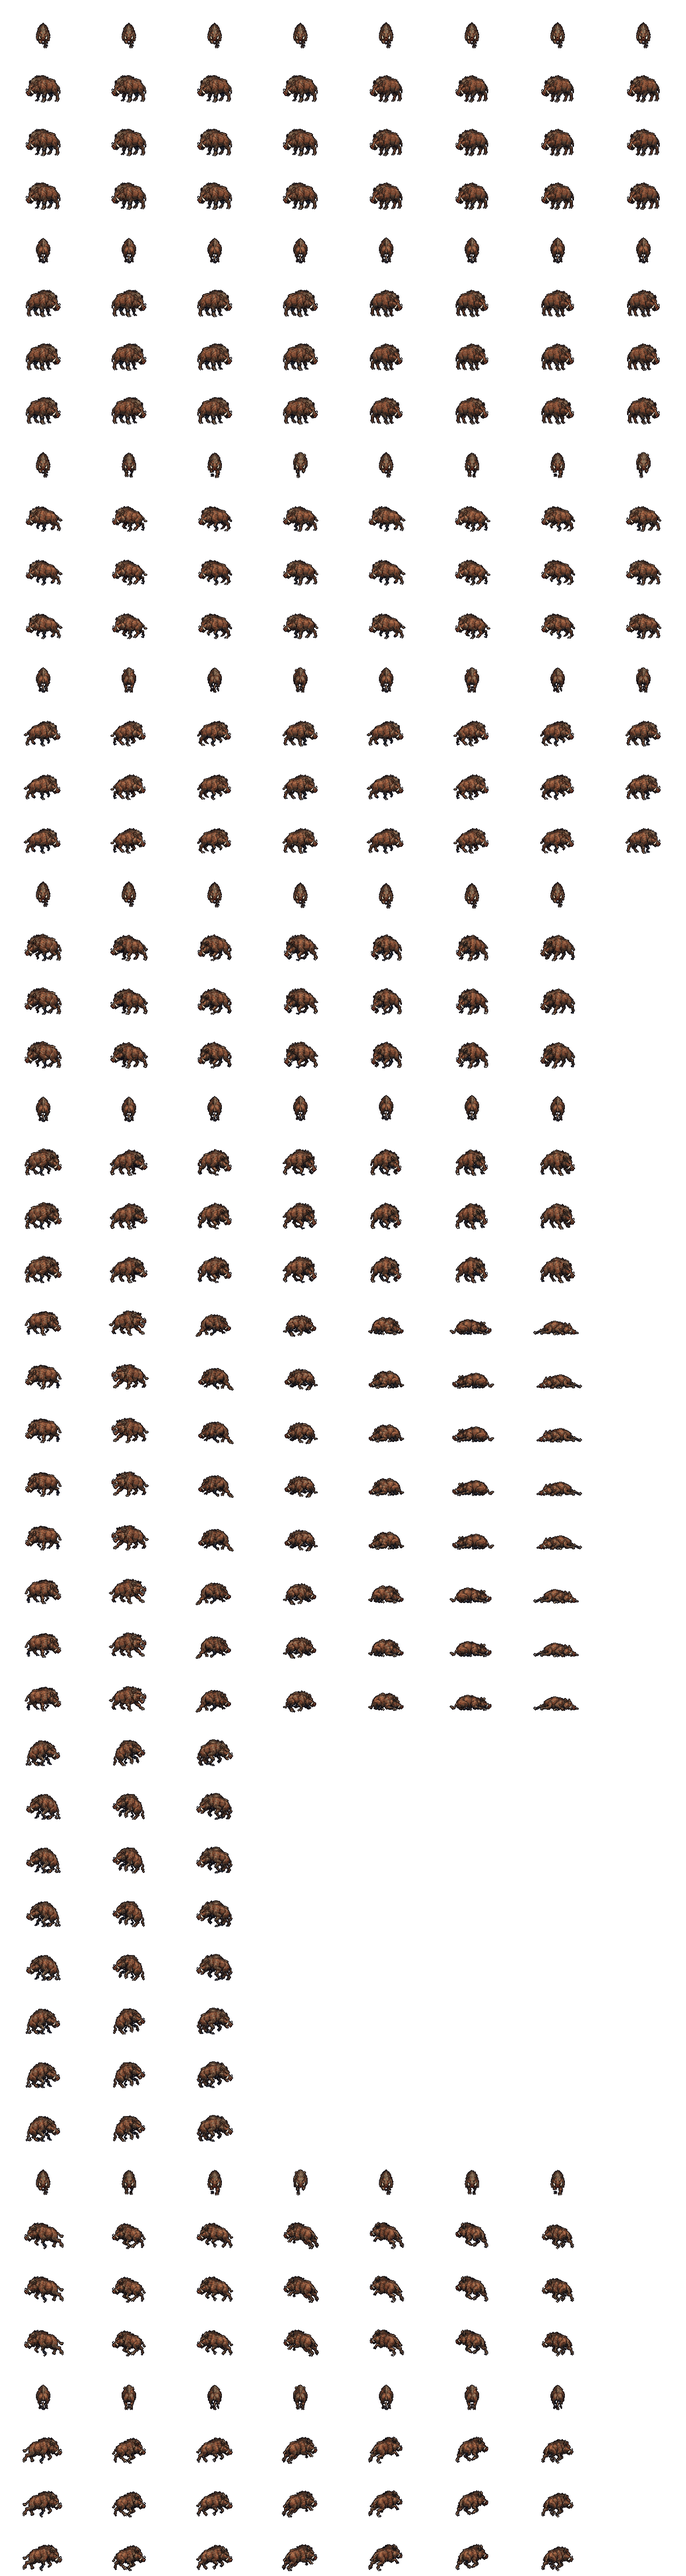
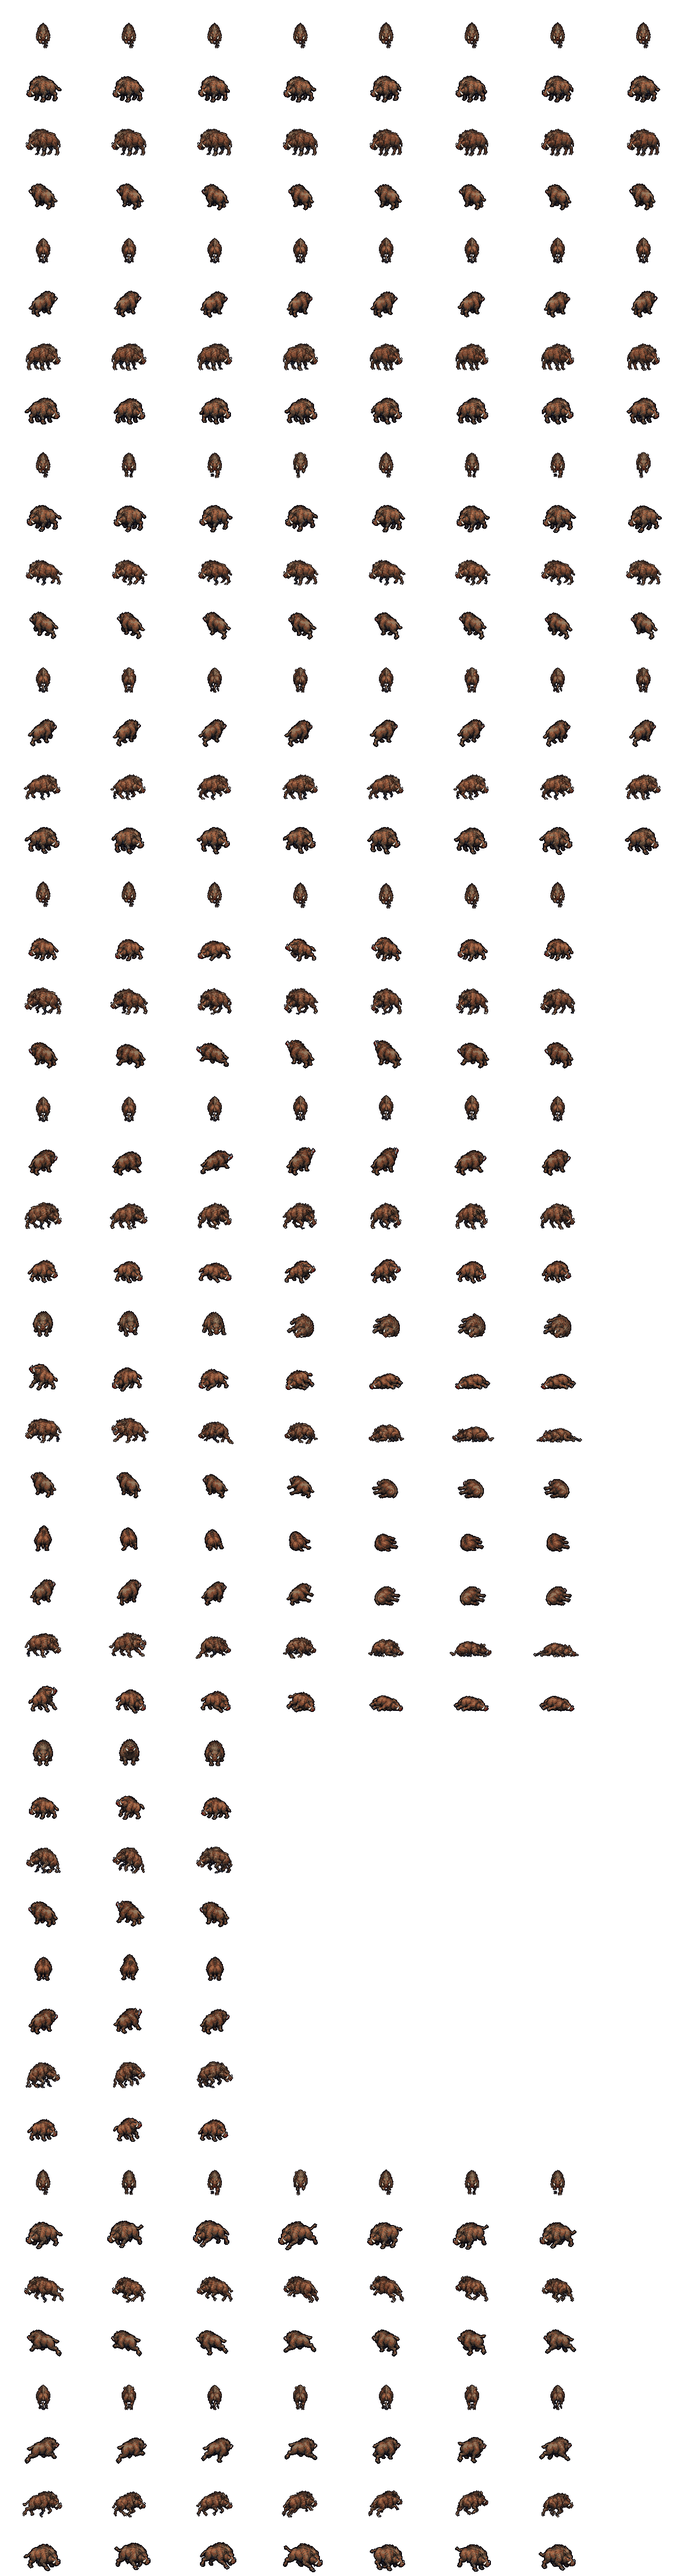
The giant boar in all eight facings: the art desk's ART-41 cut onto giantboar_p2 (SE and NE every row, SW and NW mirrored; S and N their hit and death)
tools/artdesk.py, new: a facings package onto a sheet its cutter already builds -- the pages cut by their numbers (sheetrows),
scaled by height (a diagonal's Idle between the side and the front or back; a later page by its Death 1 or first frame against
its Idle 1; a front or back page by its standing frame), toned per channel to the sheet's own frame for that view when asked,
placed against the numbers and the row's ground, refused when a frame leaves the cell. tools/boar-sheet.py ART41 through it
(K 2.95 to 5.76; toned: the desk drew it warmer and lighter), and its _src from the main checkout in a worktree. Idle frame 1
stands 50 SE, 49 NE, against 51 side, 48 front and back. Every kept frame byte for byte. The show bench's `run 0` FAIL is the old
sheet's too (the sprint plays only after a 20-ft charge; proved by a swap).
On Griz's "spin up an one-at-a-time art cutter that goes until we're out" (10-22, to the lanes desk).

diff --git a/deep16/data/sprites.js b/deep16/data/sprites.js
@@ -3945,7 +3945,7 @@
 }
 },
 "giantboar_p2": {
-"image": "art/giantboar_p2.png?v=4aa0218cc1",
+"image": "art/giantboar_p2.png?v=93caf0aa98",
 "fw": 160,
 "fh": 100,
 "ax": 80,
@@ -4007,7 +4007,7 @@
 "fps": 14
 }
 },
-"source": "generated by Griz (2026-09-30, one sheet of two), cut and snapped by tools/boar-sheet.py"
+"source": "generated by Griz (2026-09-30, one sheet of two), cut and snapped by tools/boar-sheet.py; SE and NE every row and S and N their hit and death drawn by the art desk (ART-41, 10-22)"
 },
 "giantfrog_p1": {
 "image": "art/giantfrog_p1.png?v=00f7fa1159",

diff --git a/deep16/index.html b/deep16/index.html
@@ -77,7 +77,7 @@
 <script src="js/art.js?v=e1ce4cf012"></script>
 <script src="data/cavern.js?v=647c1a184a"></script>
 <script src="data/maps.js?v=971b4fe9e6"></script>
-<script src="data/sprites.js?v=9fec0d7a57"></script>
+<script src="data/sprites.js?v=4e21a0120f"></script>
 <script src="js/sprites.js?v=132505c283"></script>
 <script src="js/save.js?v=1191d6f29a"></script>
 <script src="data/spells.js?v=b819b6e987"></script>

diff --git a/tools/artdesk.py b/tools/artdesk.py
@@ -1,0 +1,151 @@
+"""The art desk's facings packages onto a sheet a cutter already builds (10-22, the monster cutter seat's second run: the ettercap's art39
+first, then this, shared by the sheets after it). A package draws a creature's missing views on numbered pages: HEAD 1 SE, HEAD 2 NE,
+HEAD 3 S, HEAD 5 N (RULED 10-14: five drawn views, SW and NW the mirrors of SE and NE), each row's name at its left and its numbers under it.
+
+    AD = <load tools/artdesk.py>
+    got = AD.views(ROOT, 'giantboar', 'ART-41', PAGES, VIEWS, idle_h, fit, torso_x, (FW, FH, AX, AY))   # -> {view: {row: [FH x FW arrays]}}
+
+PAGES: {L: dict(file, W, text=[boxes], rows=[(row, band, number strip, count)])}, boxes read off the page (the numbers, islands in the
+navy; the row names at the left). VIEWS: {'SE': (L, ...), 'NE': (...), 'S': (...), 'N': (...)} -- each view's pages, its Idle's first
+when it has one. idle_h: the sheet's own standing heights at game size {'side':, 'S':, 'N':}. fit(im, k) -> the game-size RGBA array (the
+cutter's own: its tone, its outline); torso_x(a) -> the body's middle column.
+Scale by height: a diagonal's Idle meets the mean of the side's and its front's (SE) or back's (NE); a later page by its first standing
+frame (its Death 1 when it has one, else its first row's first frame) against its view's Idle 1, by the page's own px; a front or back page
+by that standing frame against the front's or back's idle. Placed as the page drew them: each row's first frame with its torso on AX and its
+lowest row on AY, the rest against their numbers and the row's ground. Refuses a frame cut off at the cell's edge.
+"""
+import os, subprocess, importlib.util
+import numpy as np
+from PIL import Image
+from scipy import ndimage
+
+
+def src_dir(root):
+    """the art lives in the main checkout's deep16/_src (not in git): a worktree reads it there"""
+    d = os.path.join(root, 'deep16', '_src')
+    if os.path.isdir(d):
+        return d
+    common = subprocess.run(['git', '-C', root, 'rev-parse', '--git-common-dir'], capture_output=True, text=True).stdout.strip()
+    return os.path.join(os.path.dirname(os.path.abspath(os.path.join(root, common))), 'deep16', '_src')
+
+
+def _sheetrows(root):
+    spec = importlib.util.spec_from_file_location('sheetrows', os.path.join(root, 'tools', 'sheetrows.py'))
+    mod = importlib.util.module_from_spec(spec); spec.loader.exec_module(mod)
+    return mod
+
+
+def body_h(im):
+    """a page frame's height: its biggest piece filled (a loose shred, a strand, a spark left out)"""
+    m = np.asarray(im)[..., 3] > 0
+    lab, n = ndimage.label(m, structure=np.ones((3, 3)))
+    m = lab == 1 + int(np.argmax(ndimage.sum(m, lab, range(1, n + 1))))
+    ys = np.where(m.any(axis=1))[0]
+    return float(ys[-1] - ys[0] + 1)
+
+
+def tall(a):
+    ys = np.where(a[..., 3].any(axis=1))[0]
+    return int(ys[-1] - ys[0] + 1)
+
+
+def cut(root, sub, art, pages, chan=None, fix=None):
+    """-> {L: {row: [(page image, its box, its number's x)]}}"""
+    SR = _sheetrows(root)
+    out = {}
+    for L, s in pages.items():
+        path = os.path.join(src_dir(root), sub, art, s['file'])
+        a = np.asarray(Image.open(path).convert('RGB')).astype(np.int32)
+        sp = dict(text=s['text'] + [(0, l0 - 3, s['W'], l1 + 4) for _, _, (l0, l1), _ in s['rows']],
+                  rows=[(r, b, l, [str(i + 1) for i in range(n)]) for r, b, l, n in s['rows']])
+        if chan:
+            sp['chan'] = chan
+        got = SR.cut_sheet(path, sp, fix=(fix or {}).get(L), tag=L)
+        lx = {r: SR.label_xs(a, b[0], b[2], l[0], l[1]) for r, b, l, _ in s['rows']}
+        out[L] = {r: [(im, box, lx[r][i]) for i, (_, im, box) in enumerate(frs)] for r, frs in got.items()}
+    return out
+
+
+def scales(cuts, views, idle_h, fit):
+    def k_for(ims, target):                          # page px a game px: the fitted frames' median height meets target
+        lo, hi = 1.0, 20.0
+        for _ in range(26):
+            k = (lo + hi) / 2
+            got = float(np.median([tall(fit(im, k)) for im in ims]))
+            lo, hi = (k, hi) if got > target else (lo, k)
+        return (lo + hi) / 2
+    stand = lambda L: (cuts[L]['hurt'] if 'hurt' in cuts[L] else next(iter(cuts[L].values())))[0][0]
+    K = {}
+    for v, ls in views.items():
+        if 'idle' in cuts[ls[0]]:
+            p1 = ls[0]
+            target = idle_h[v] if v in ('S', 'N') else (idle_h['side'] + idle_h['S' if v == 'SE' else 'N']) / 2
+            K[p1] = k_for([im for im, _, _ in cuts[p1]['idle']], target)
+            ref = body_h(cuts[p1]['idle'][0][0])
+            for L in ls[1:]:
+                K[L] = K[p1] * body_h(stand(L)) / ref
+        else:                                            # a front or back page with no idle: its standing frame against the view's idle
+            for L in ls:
+                K[L] = k_for([stand(L)], idle_h[v])
+    return K
+
+
+def _mean(a):
+    al = a[..., 3] > 0
+    return a[..., :3][al].astype(float).mean(0)
+
+
+def toned(im, f):
+    a = np.asarray(im).astype(float)
+    a[..., :3] = np.clip(a[..., :3] * np.array(f), 0, 255)
+    return Image.fromarray(a.astype(np.uint8), 'RGBA')
+
+
+def tones(cuts, view_pages, K, fit, ref):
+    """per channel, each page's standing frame (its Idle 1, else as `scales`) brought to the sheet's own frame for that view (ref: {'side':,
+    'S':, 'N':} game-size arrays; SE and NE against the side), measured at game size, both snapped"""
+    T = {}
+    for v, ls in view_pages.items():
+        r = _mean(ref['side'] if v in ('SE', 'NE') else ref[v])
+        for L in ls:
+            im = (cuts[L]['idle'] if 'idle' in cuts[L] else cuts[L]['hurt'] if 'hurt' in cuts[L] else next(iter(cuts[L].values())))[0][0]
+            f = r / _mean(fit(im, K[L]))
+            f = f * r / _mean(fit(toned(im, f), K[L]))           # (once more: the snap moves what the tone moved)
+            T[L] = tuple(float(round(x, 3)) for x in f)
+    print('  tone: ' + ', '.join('%s x %s' % (L, T[L]) for L in T))
+    return T
+
+
+def views(root, sub, art, pages, view_pages, idle_h, fit, torso_x, cell, chan=None, fix=None, tone_ref=None):
+    """tone_ref: the sheet's own frames to tone each page to (see `tones`), or None to cut the pages' colour as drawn"""
+    FW, FH, AX, AY = cell
+    cuts = cut(root, sub, art, pages, chan, fix)
+    K = scales(cuts, view_pages, idle_h, fit)
+    print('  %s K: ' % art + ', '.join('%s %.2f' % (L, K[L]) for L in pages) +
+          '; the sheet stands %.0f side-on, %.0f from the front, %.0f from behind' % (idle_h['side'], idle_h['S'], idle_h['N']))
+    T = tones(cuts, view_pages, K, fit, tone_ref) if tone_ref else {}
+    out, lost = {}, []
+    for v, ls in view_pages.items():
+        out[v] = {}
+        for L in ls:
+            k = K[L]
+            for an, frs in cuts[L].items():
+                fits = [fit(toned(im, T[L]) if L in T else im, k) for im, _, _ in frs]
+                rel = [((box[0] - x) / k, box[3] / k) for _, box, x in frs]     # (each frame's left against its number, its foot on the row's ground)
+                tx = torso_x(fits[0])
+                row = []
+                for a, (rx, rb) in zip(fits, rel):
+                    ox = int(round(AX - tx + (rx - rel[0][0])))
+                    oy = int(round(AY + (rb - rel[0][1]))) - int(np.where(a[..., 3].any(axis=1))[0][-1])
+                    fr = np.zeros((FH, FW, 4), dtype=np.uint8)
+                    h, w = a.shape[:2]
+                    y0, x0, y1, x1 = max(0, oy), max(0, ox), min(FH, oy + h), min(FW, ox + w)
+                    if y1 > y0 and x1 > x0:
+                        fr[y0:y1, x0:x1] = a[y0 - oy:y1 - oy, x0 - ox:x1 - ox]
+                    if (fr[..., 3] > 0).sum() < (a[..., 3] > 0).sum():
+                        lost.append('%s %s %d (rows %d..%d cols %d..%d)' % (L, an, len(row) + 1, oy, oy + h - 1, ox, ox + w - 1))
+                    row.append(fr)
+                out[v][an] = row
+    if lost:
+        raise SystemExit('%s cut off at the cell edge (%d x %d, anchor %d,%d): ' % (art, FW, FH, AX, AY) + '; '.join(lost))
+    return out

diff --git a/tools/boar-sheet.py b/tools/boar-sheet.py
@@ -33,7 +33,10 @@ import importlib.util
 spec = importlib.util.spec_from_file_location('pix', os.path.join(ROOT, 'tools', 'pixelate.py'))
 pix = importlib.util.module_from_spec(spec); spec.loader.exec_module(pix)
 
-SRC = os.path.join(ROOT, 'deep16', '_src')
+spec = importlib.util.spec_from_file_location('artdesk', os.path.join(ROOT, 'tools', 'artdesk.py'))
+AD = importlib.util.module_from_spec(spec); spec.loader.exec_module(AD)
+
+SRC = AD.src_dir(ROOT)                                  # (his sheets live in the main checkout: a worktree reads them there)
 NAME = 'giantboar_p2'
 A = np.asarray(Image.open(os.path.join(SRC, 'boar_grok_1.webp')).convert('RGB')).astype(np.int32)
 _v, _c = np.unique(A.reshape(-1, 3) // 4, axis=0, return_counts=True)
@@ -46,6 +49,30 @@ BANDS = {'idle': ((20, 108, 298, 228), 2), 'walk': ((318, 108, 910, 228), 4),
          'front': ((20, 268, 472, 402), 5), 'back': ((490, 268, 916, 402), 5),
          'attack': ((20, 442, 916, 554), 7), 'hit': ((20, 592, 452, 700), 3),
          'death': ((468, 592, 1516, 700), 7), 'sprint': ((20, 736, 766, 834), 7)}
+
+
+# The five views (10-22, the monster cutter seat's second run): the art desk's ART-41 in deep16/_src/giantboar/ART-41/ (sorted out of Fresh
+# by _src/art-desk/sort-delivery.py; its papers in _src/art-desk/received-2026-10-22-ART-41-giantboar-FINAL-SHEETS/): HEAD 1 SE on two pages
+# (Idle 8, Walk 8, Sprint 7; Gore 7, Hit 3, Death 7), HEAD 2 NE on three (Idle, Walk, Sprint; Gore, Hit; Death), HEAD 3 S and HEAD 5 N their
+# Hit and Death. Cut, scaled and placed by tools/artdesk.py (by height: this sheet's idle stands STAND from every side, so a diagonal meets
+# it; a later page by its Death 1 or Gore 1 against its Idle 1; S's and N's Death 1 against their idles), through `fit` as Griz's sheet.
+# SE and SW, NE and NW take every row; S and N their flinch and hurt (his walks toward and away keep their idle, walk, run and the gore's dip).
+ART41 = {
+  'H1P1': dict(file='ART-41_HEAD-1_PAGE-1.png', W=1536, text=[(12, 154, 87, 186), (10, 394, 101, 428), (11, 657, 119, 690)],
+               rows=[('idle', (0, 0, 1536, 339), (313, 339), 8), ('walk', (0, 340, 1536, 600), (574, 600), 8), ('run', (0, 601, 1536, 872), (845, 872), 7)]),
+  'H1P2': dict(file='ART-41_HEAD-1_PAGE-2.png', W=1536, text=[(12, 139, 103, 175), (12, 413, 74, 449), (12, 662, 116, 698)],
+               rows=[('attack', (0, 0, 1536, 346), (319, 346), 7), ('flinch', (0, 347, 1536, 620), (593, 620), 3), ('hurt', (0, 621, 1536, 898), (870, 898), 7)]),
+  'H2P1': dict(file='ART-41_HEAD-2_PAGE-1.png', W=1536, text=[(12, 154, 84, 186), (10, 394, 102, 428), (12, 657, 119, 690)],
+               rows=[('idle', (0, 0, 1536, 339), (314, 339), 8), ('walk', (0, 340, 1536, 600), (574, 600), 8), ('run', (0, 601, 1536, 872), (845, 872), 7)]),
+  'H2P2': dict(file='ART-41_HEAD-2_PAGE-2.png', W=1774, text=[(16, 123, 115, 163), (16, 381, 82, 420)],
+               rows=[('attack', (0, 0, 1774, 310), (282, 310), 7), ('flinch', (0, 311, 1774, 560), (532, 560), 3)]),
+  'H2P3': dict(file='ART-41_HEAD-2_PAGE-3.png', W=2032, text=[(18, 269, 142, 313)], rows=[('hurt', (0, 0, 2032, 589), (552, 589), 7)]),
+  'H3P1': dict(file='ART-41_HEAD-3_PAGE-1.png', W=1808, text=[(23, 150, 92, 192), (25, 463, 144, 506)],
+               rows=[('flinch', (0, 0, 1808, 413), (383, 413), 3), ('hurt', (0, 414, 1808, 766), (736, 766), 7)]),
+  'H5P1': dict(file='ART-41_HEAD-5_PAGE-1.png', W=1774, text=[(19, 185, 98, 232), (19, 480, 148, 526)],
+               rows=[('flinch', (0, 0, 1774, 387), (355, 387), 3), ('hurt', (0, 388, 1774, 775), (742, 775), 7)]),
+}
+VIEWS41 = {'SE': ('H1P1', 'H1P2'), 'NE': ('H2P1', 'H2P2', 'H2P3'), 'S': ('H3P1',), 'N': ('H5P1',)}
 
 
 def frames_in(name):
@@ -170,6 +197,12 @@ def build():
             frames['hurt'].append(hurt_l); frames['flinch'].append(flinch_l); frames['run'].append(run_l)
     for t in CLIPPED:
         print('  CLIPPED', t)
+    d41 = AD.views(ROOT, 'giantboar', 'ART-41', ART41, VIEWS41, {'side': AD.tall(idle_r[0]), 'S': AD.tall(fS), 'N': AD.tall(fN)},
+                   fit, torso_x, (FW, FH, AX, AY), tone_ref={'side': idle_r[0], 'S': fS, 'N': fN})   # ART-41 (10-22): the five views,
+                                                                            # toned to his sheet (the desk drew it warmer and lighter)
+    for f, v, flip in ((7, 'SE', False), (1, 'SE', True), (5, 'NE', False), (3, 'NE', True), (0, 'S', False), (4, 'N', False)):
+        for a, fs in d41[v].items():
+            frames[a][f] = mirror(fs) if flip else fs
     return frames
 
 
@@ -179,7 +212,8 @@ def write(frames):
     meta = json.load(open(meta_p))
     for k, v in {'idle': 4, 'walk': 9, 'attack': 12, 'hurt': 8, 'flinch': 12, 'run': 14}.items():
         meta['anims'][k]['fps'] = v
-    meta['source'] = 'generated by Griz (2026-09-30, one sheet of two), cut and snapped by tools/boar-sheet.py'
+    meta['source'] = ('generated by Griz (2026-09-30, one sheet of two), cut and snapped by tools/boar-sheet.py; SE and NE every row and '
+                      'S and N their hit and death drawn by the art desk (ART-41, 10-22)')
     json.dump(meta, open(meta_p, 'w'), indent=1)
 
 
